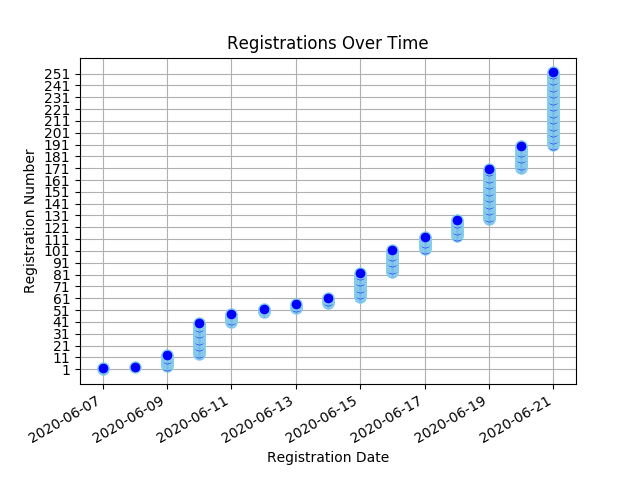
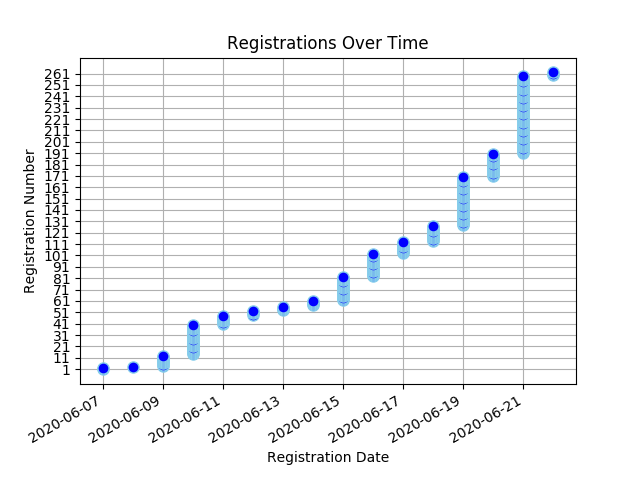
Registree stats backup on Mon Jun 22 08:42:53 SAST 2020

Changed region(s): [[0.0625, 0.125, 0.9062, 0.7812], [0.125, 0.8125, 0.8438, 0.9375], [0.8438, 0.8125, 0.875, 0.8438]]

diff --git a/content/virtual_conf_stats/_index.md b/content/virtual_conf_stats/_index.md
@@ -16,7 +16,7 @@ draft: false
 </head>
 <body>
 <h1 style="color: #000000;">Virtual Convention Registration Stats</h1>
-<ul><li><strong>Number of Registrees</strong>: 252</li>
+<ul><li><strong>Number of Registrees</strong>: 262</li>
 </ul><a href="/docs/virtual_convention_stats.csv">Download registration details here</a>
 <h2>Registrees</h2>
 <table id="registreeTable" class="tablesorter" border="1" padding=1>
@@ -63,6 +63,7 @@ Club
 <tr><td>Cottle, Sharon</td><td>Groote Schuur</td></tr>
 <tr><td>Daniel, Peter</td><td>Gordon's Bay</td></tr>
 <tr><td>De Gouveia, Ashley</td><td>Benoni Lakes Lions Club</td></tr>
+<tr><td>de Kock, Engela</td><td>Swellendam</td></tr>
 <tr><td>De Vos, Felicity</td><td>Kuilsriver</td></tr>
 <tr><td>De Vos, Felicity</td><td>Kuilsriver</td></tr>
 <tr><td>Diener, Benita (Bonny)</td><td>Lions Club of Mitchell's Plain</td></tr>
@@ -109,6 +110,7 @@ Club
 <tr><td>HOBBS, TREVOR</td><td>North Durban</td></tr>
 <tr><td>Hocking, Cliff</td><td>Midrand 410E</td></tr>
 <tr><td>Hocking, Jacqui</td><td>Midrand</td></tr>
+<tr><td>Hoffmann, Ellen</td><td>Windhoek Lions Club</td></tr>
 <tr><td>Hone, Amanda</td><td>Wilro Park</td></tr>
 <tr><td>Houston, Elizabeth</td><td>Table View</td></tr>
 <tr><td>Houston, John</td><td>Table View</td></tr>
@@ -117,6 +119,7 @@ Club
 <tr><td>Isaacs, Roger</td><td>Athlone</td></tr>
 <tr><td>Jacobs, David</td><td>Durbanville</td></tr>
 <tr><td>Jacobs, Jean</td><td>Mitchells Plain</td></tr>
+<tr><td>Jacobson, Elsie</td><td>Cape Town</td></tr>
 <tr><td>Jacobson, Wolsley</td><td>CAPE TOWN</td></tr>
 <tr><td>JOHNSTON, MALCOLM</td><td>STANDERTON</td></tr>
 <tr><td>Jonathan, Grant</td><td>Gordon's Bay</td></tr>
@@ -146,11 +149,13 @@ Club
 <tr><td>Lee, Heather</td><td>Cape of Goodhope Lions</td></tr>
 <tr><td>Leisching, Tamara</td><td>Tableveiw</td></tr>
 <tr><td>Love, Dee</td><td>Cowies Hill</td></tr>
+<tr><td>Ludicks, Nicole</td><td>Merriman Lions Club</td></tr>
 <tr><td>Ludicks, Nicole</td><td>Merriman Lions</td></tr>
 <tr><td>M'bemba, Wilfried</td><td>Cape of good hope</td></tr>
 <tr><td>Mackintosh, Colin</td><td>Scottburgh Lions</td></tr>
 <tr><td>MACROBERT, PAM</td><td>LIONS CLUB OF GROOTE SCHUUR</td></tr>
 <tr><td>Mangwende, Sharon</td><td>Lions Club of Cape Town</td></tr>
+<tr><td>Marais, Kevin</td><td>Knysna Lions Club</td></tr>
 <tr><td>Marchant, Richard</td><td>The Wilds - Johannesburg</td></tr>
 <tr><td>Mare, Beaulieu</td><td>Benoni Lakes</td></tr>
 <tr><td>Mare, Nicholas</td><td>Benoni Lakes Lions</td></tr>
@@ -167,9 +172,11 @@ Club
 <tr><td>Michas, Roy</td><td>Midrand</td></tr>
 <tr><td>Mills, Bernice</td><td>Centurion</td></tr>
 <tr><td>Mills, Patrick</td><td>Centurion</td></tr>
+<tr><td>Mocke, Jenny</td><td>Swellendam</td></tr>
 <tr><td>MOELLER, FRAUKE</td><td>WINDHOEK LIONS CLUB</td></tr>
 <tr><td>Morgan, Faith</td><td>Table View</td></tr>
 <tr><td>Morison, Sabina</td><td>Hout Bay</td></tr>
+<tr><td>Moses, Brian</td><td>Cape of Good Hope</td></tr>
 <tr><td>Mostert, Jacquest</td><td>Lions Club of Merriman</td></tr>
 <tr><td>Moulounda, Alain</td><td>CAPE OF GOOD HOPE LIONS</td></tr>
 <tr><td>Mouton, Rene</td><td>Eden Lions Club</td></tr>
@@ -187,6 +194,7 @@ Club
 <tr><td>Noeth, Bonita</td><td>Sedgefield</td></tr>
 <tr><td>NORMAN, MAUREEN</td><td>PORT REX LIONS CLUB</td></tr>
 <tr><td>Nulliah, Ramona</td><td>Durban Host</td></tr>
+<tr><td>Ocker, Jenny</td><td>Fish Hoek and Simonsbay</td></tr>
 <tr><td>Olivier, Debra</td><td>Sedgefield</td></tr>
 <tr><td>Olsen, Rita</td><td>Gordon's Bay</td></tr>
 <tr><td>Paijmans, Bronwyn</td><td>Cowies Hill</td></tr>
@@ -200,6 +208,8 @@ Club
 <tr><td>Pretorius, Shane</td><td>Merriman Lions</td></tr>
 <tr><td>Pretorius, Sheldon</td><td>Merriman Lions Club</td></tr>
 <tr><td>Ras, Leon</td><td>Swellendam</td></tr>
+<tr><td>Reviglio, Katia</td><td>Windhoek</td></tr>
+<tr><td>Reviglio, Roberto</td><td>Windhoek</td></tr>
 <tr><td>RICHARDSON, VANESSA</td><td>RAMSGATE</td></tr>
 <tr><td>Rigby, Moira</td><td>Kingsburgh</td></tr>
 <tr><td>Roman, Sandy</td><td>Bergvliet</td></tr>
